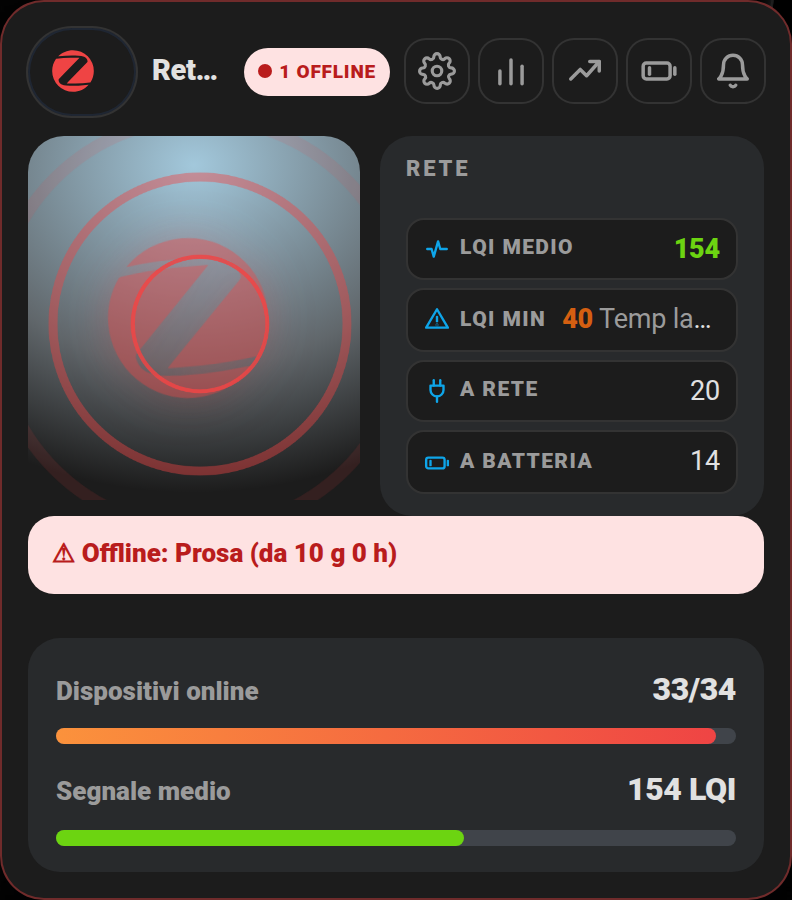
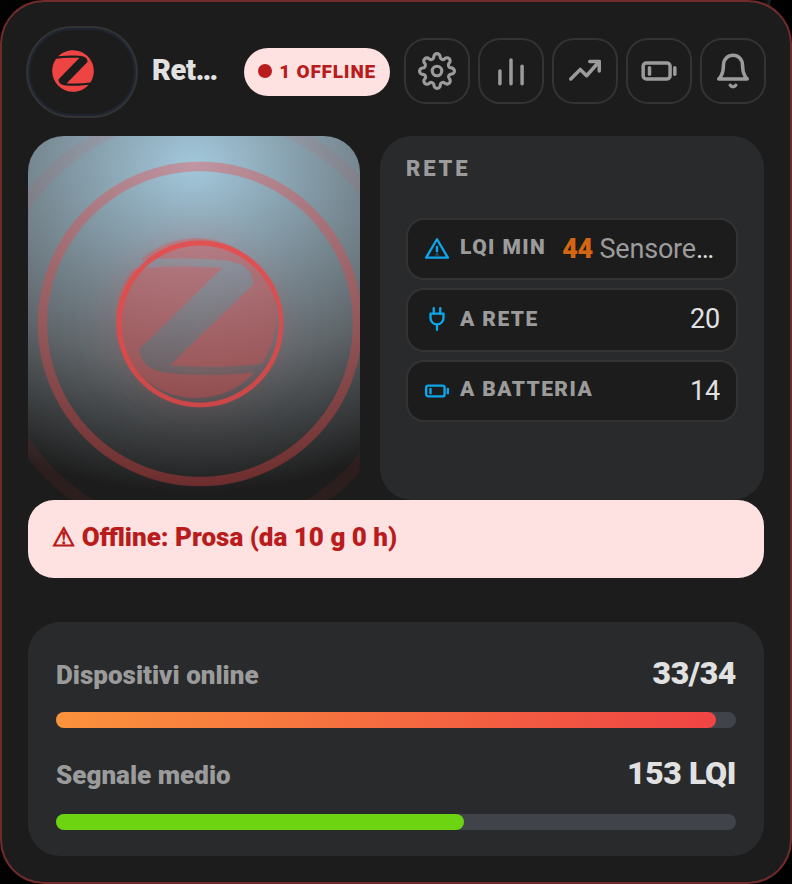
1.8.1: fix link interfaccia Zigbee2MQTT, tolto LQI medio doppio

diff --git a/smart-home-cards.js b/smart-home-cards.js
@@ -7797,7 +7797,6 @@ class ShcZigbeeCard extends HTMLElement {
           <div class="shc-ap-cycle-side">
             <span class="shc-ap-cycle-cap">Rete</span>
             <div class="shc-ap-cycle-list">
-              <div class="shc-ap-cycle-row shc-ap-cycle-row-b"><span class="shc-ap-cycle-label"><span class="shc-ap-cycle-ic">${ICON_PULSE}</span><small>LQI medio</small></span><b class="shc-zb-avg">—</b></div>
               <div class="shc-ap-cycle-row shc-ap-cycle-row-b"><span class="shc-ap-cycle-label"><span class="shc-ap-cycle-ic">${ICON_ALERT}</span><small>LQI min</small></span><b class="shc-zb-min">—</b></div>
               <div class="shc-ap-cycle-row shc-ap-cycle-row-b"><span class="shc-ap-cycle-label"><span class="shc-ap-cycle-ic">${ICON_PLUG}</span><small>A rete</small></span><b class="shc-zb-mains">—</b></div>
               <div class="shc-ap-cycle-row shc-ap-cycle-row-b"><span class="shc-ap-cycle-label"><span class="shc-ap-cycle-ic">${ICON_BATTERY}</span><small>A batteria</small></span><b class="shc-zb-batt">—</b></div>
@@ -7916,7 +7915,6 @@ class ShcZigbeeCard extends HTMLElement {
           : `${d.online}/${d.total} ONLINE`;
 
     const q = (sel) => this._root.querySelector(sel);
-    q(".shc-zb-avg").innerHTML = d.avg >= 0 ? `<span style="color:${zbLqiColor(d.avg)};font-weight:800">${d.avg}</span>` : "—";
     q(".shc-zb-min").innerHTML = d.minDev
       ? `<span style="color:${zbLqiColor(d.minDev.q)};font-weight:800">${d.minDev.q}</span> <span style="color:var(--shc-dim)">${esc(d.minDev.n)}</span>`
       : "—";
@@ -8340,7 +8338,7 @@ class ShcZigbeeCardEditor extends ShcSimpleCardEditorBase {
         { key: "restart_entity", label: "Pulsante riavvio", domain: ["button"] },
         { key: "version_entity", label: "Versione", domain: ["sensor"] },
         { key: "log_level_entity", label: "Livello log", domain: ["select"] },
-        { key: "frontend_url", label: "Indirizzo interfaccia Zigbee2MQTT", kind: "text", placeholder: "/hassio/ingress/45df7312_zigbee2mqtt", hint: "Percorso dell'add-on (Ingress) oppure un indirizzo http completo." },
+        { key: "frontend_url", label: "Indirizzo interfaccia Zigbee2MQTT", kind: "text", placeholder: "/45df7312_zigbee2mqtt", hint: "Il percorso che vedi nella barra degli indirizzi aprendo Zigbee2MQTT dal menu laterale, oppure un indirizzo http completo." },
         { key: "image_path", label: "Cartella foto dispositivi", kind: "text", placeholder: "/local/zigbee_img/", hint: "Se una foto manca la card la prende dal sito di Zigbee2MQTT." },
       ]},
       { title: "Notifiche (helper del package)", fields: [

diff --git a/CHANGELOG.md b/CHANGELOG.md
@@ -1,5 +1,10 @@
 # Changelog
 
+## 2026-10-25 (2) — 1.8.1: fix card Rete Zigbee
+
+- **Fix**: il pulsante "Apri" dell'interfaccia Zigbee2MQTT portava alla dashboard principale. Il percorso giusto è quello del pannello nel menu laterale (es. `/45df7312_zigbee2mqtt`): le versioni recenti di Home Assistant non hanno più `/hassio/ingress/...`. Esempio e guida corretti.
+- La colonna a destra non ripete più l'LQI medio, già mostrato nella barra "Segnale medio".
+
 ## 2026-10-25 — 1.8.0: nuova card Rete Zigbee
 
 - **Nuova card 📡 Rete Zigbee** (`shc-zigbee-card`) per Zigbee2MQTT, stessa grafica della card FritzBox. Simbolo Zigbee animato: verde con onde radio se tutto è online, rosso che trema se qualcosa è offline. A destra LQI medio, LQI minimo con il nome del dispositivo, dispositivi a rete e a batteria; la riga "Batt. bassa" compare solo sotto soglia.
